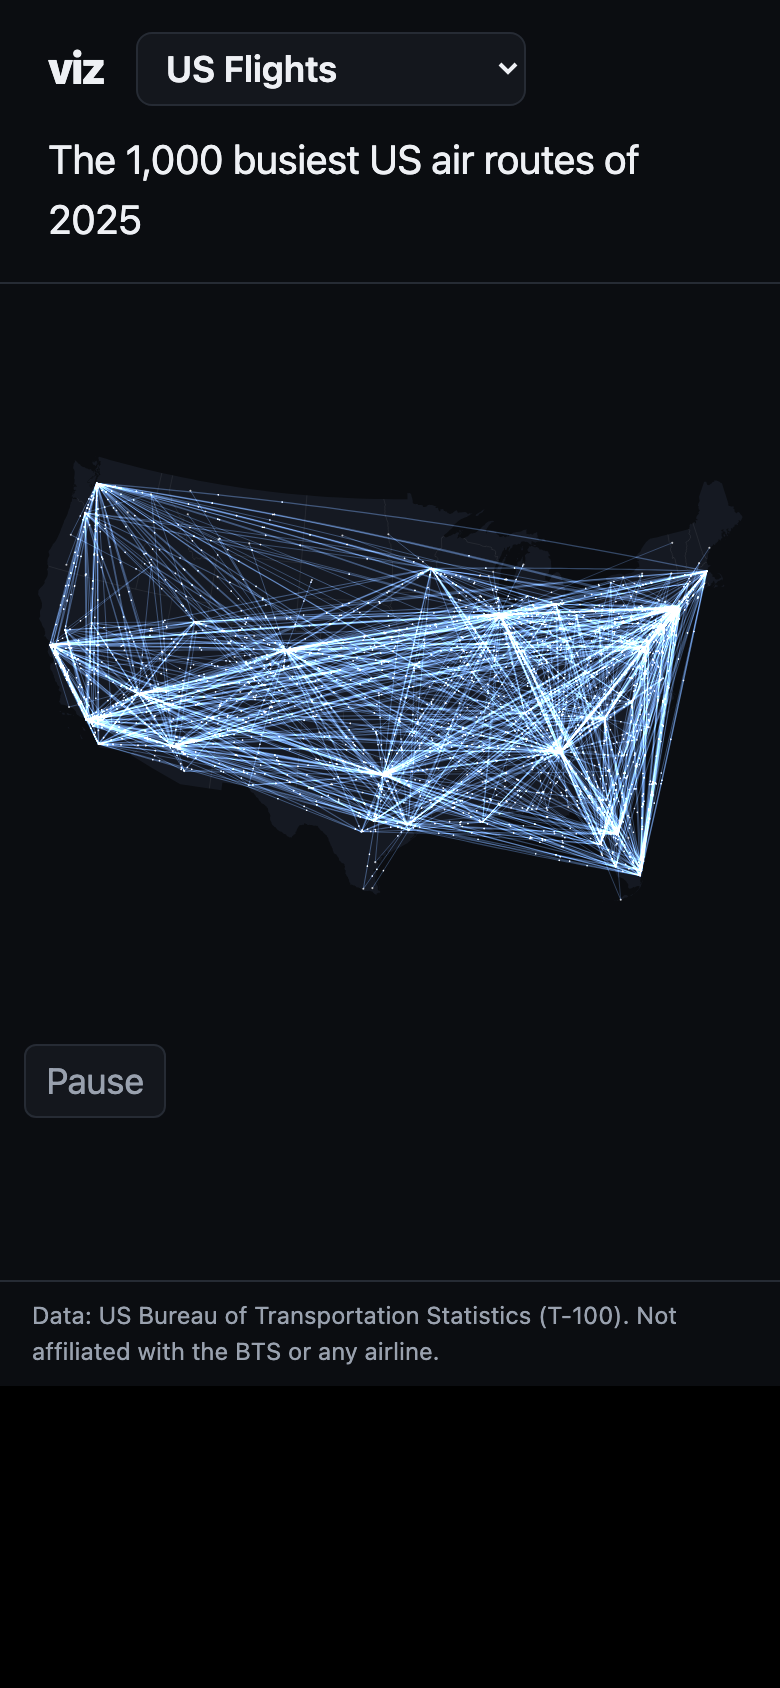
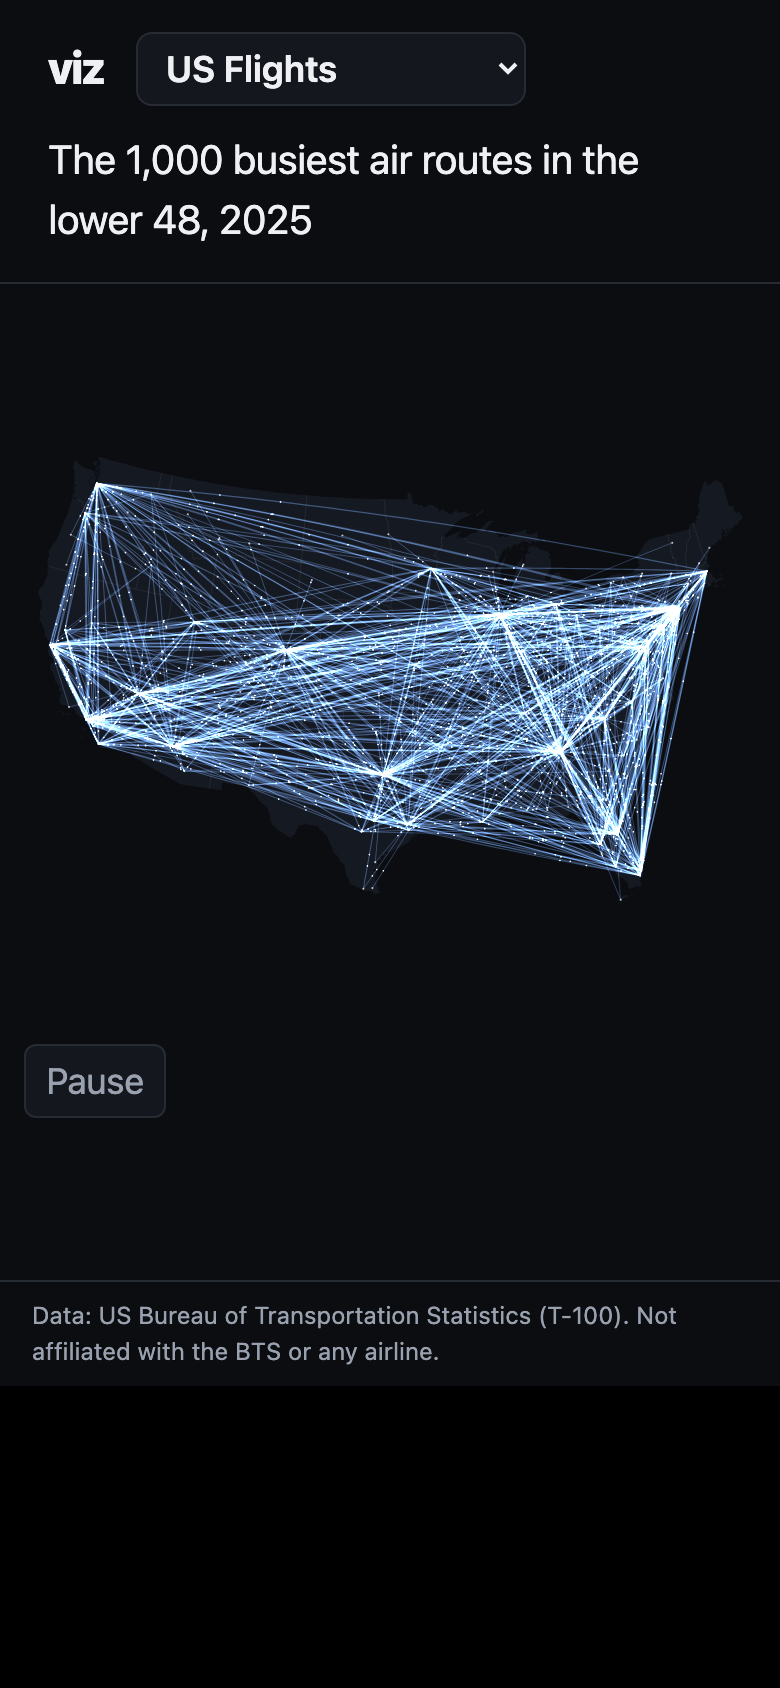
fix: flights hook says lower 48
About 65 AK/HI/PR routes (e.g. HNL-LAX at 2.31M passengers) would
otherwise make the top-1,000 list, but the map only draws the lower
48 + DC. Reword the hook and title to say so, and note the change
in the spec's §6.4 amendment.

Claude-Session: https://claude.ai/code/session_01JNoS2DNhCmwWvQ8ZQ83GuZ

Changed region(s): [[0.4615, 0.0616, 0.8308, 0.1232], [0.0615, 0.1232, 0.4, 0.154], [0.7692, 0.4621, 0.8, 0.4929]]

diff --git a/public/flights/index.html b/public/flights/index.html
@@ -3,7 +3,7 @@
   <head>
     <meta charset="utf-8" />
     <meta name="viewport" content="width=device-width, initial-scale=1" />
-    <title>The busiest US air routes of 2025 · viz</title>
+    <title>The busiest air routes in the lower 48, 2025 · viz</title>
     <meta name="description" content="The 1,000 busiest US domestic air routes of 2025 by passengers, as great-circle arcs." />
     <link rel="stylesheet" href="/viz.css" />
     <link rel="stylesheet" href="/flights/flights.css" />

diff --git a/src/web/shell/registry.ts b/src/web/shell/registry.ts
@@ -36,7 +36,7 @@ export const SHOWCASES: readonly Showcase[] = [
   {
     slug: "flights",
     title: "US Flights",
-    hook: "The 1,000 busiest US air routes of 2025",
+    hook: "The 1,000 busiest air routes in the lower 48, 2025",
     credit: "Data: US Bureau of Transportation Statistics (T-100). Not affiliated with the BTS or any airline.",
   },
 ];

diff --git a/CLAUDE.md b/CLAUDE.md
@@ -1,6 +1,6 @@
 # viz
 
-A small gallery of D3 data visualisations, made for reels: a dropdown in the header switches between showcases, each a page of its own with a one-line hook, and `?rec` locks any page into a 9:16 frame for recording. Every number comes from a named public source. The live showcases are All-Star Shots (`/shots`), every US tornado since 1950 (`/tornadoes`), a year of M4.5+ earthquakes (`/quakes`), the NBA's all-time scoring race (`/scoring`) and the 1,000 busiest US air routes of 2025 (`/flights`). Live at https://viz.jmlr.dev; https://shots.jmlr.dev redirects to `/shots`.
+A small gallery of D3 data visualisations, made for reels: a dropdown in the header switches between showcases, each a page of its own with a one-line hook, and `?rec` locks any page into a 9:16 frame for recording. Every number comes from a named public source. The live showcases are All-Star Shots (`/shots`), every US tornado since 1950 (`/tornadoes`), a year of M4.5+ earthquakes (`/quakes`), the NBA's all-time scoring race (`/scoring`) and the 1,000 busiest air routes in the lower 48, 2025 (`/flights`). Live at https://viz.jmlr.dev; https://shots.jmlr.dev redirects to `/shots`.
 
 **Stack.** A static multi-page site (TypeScript + D3, one esbuild entry per page, shared chunks), and a Worker that redirects, sets headers and serves assets. Data is pulled on a laptop by the Python scripts under `scripts/` and committed under `public/data/<slug>/`. pnpm, Wrangler, Vitest, Playwright, pytest.
 

diff --git a/docs/superpowers/specs/2026-09-24-viz-showcase-design.md b/docs/superpowers/specs/2026-09-24-viz-showcase-design.md
@@ -98,6 +98,10 @@ Moved from the root to `/shots` with its code under `src/web/shots/`. The 2026-0
 file (§6.4 above undersold this as "one CSV"). The registry hook is "The 1,000 busiest US air routes of 2025" (Josh
 confirmed). Departures set how many dots each arc carries; every dot takes the same time to cross.
 
+**Amendment (2026-09-26):** the hook changed to "The 1,000 busiest air routes in the lower 48, 2025" because about
+65 AK/HI/PR routes would otherwise make the list (e.g. HNL–LAX at 2.31M passengers), and the page only draws the
+lower 48 + DC.
+
 ### 6.5 Scoring (`/scoring`) — "The NBA's all-time scoring list, season by season"
 
 - **Source:** `nba_api`, the same library as the shots data: the all-time top 500 career scorers, then each one's season-by-season regular-season points.
